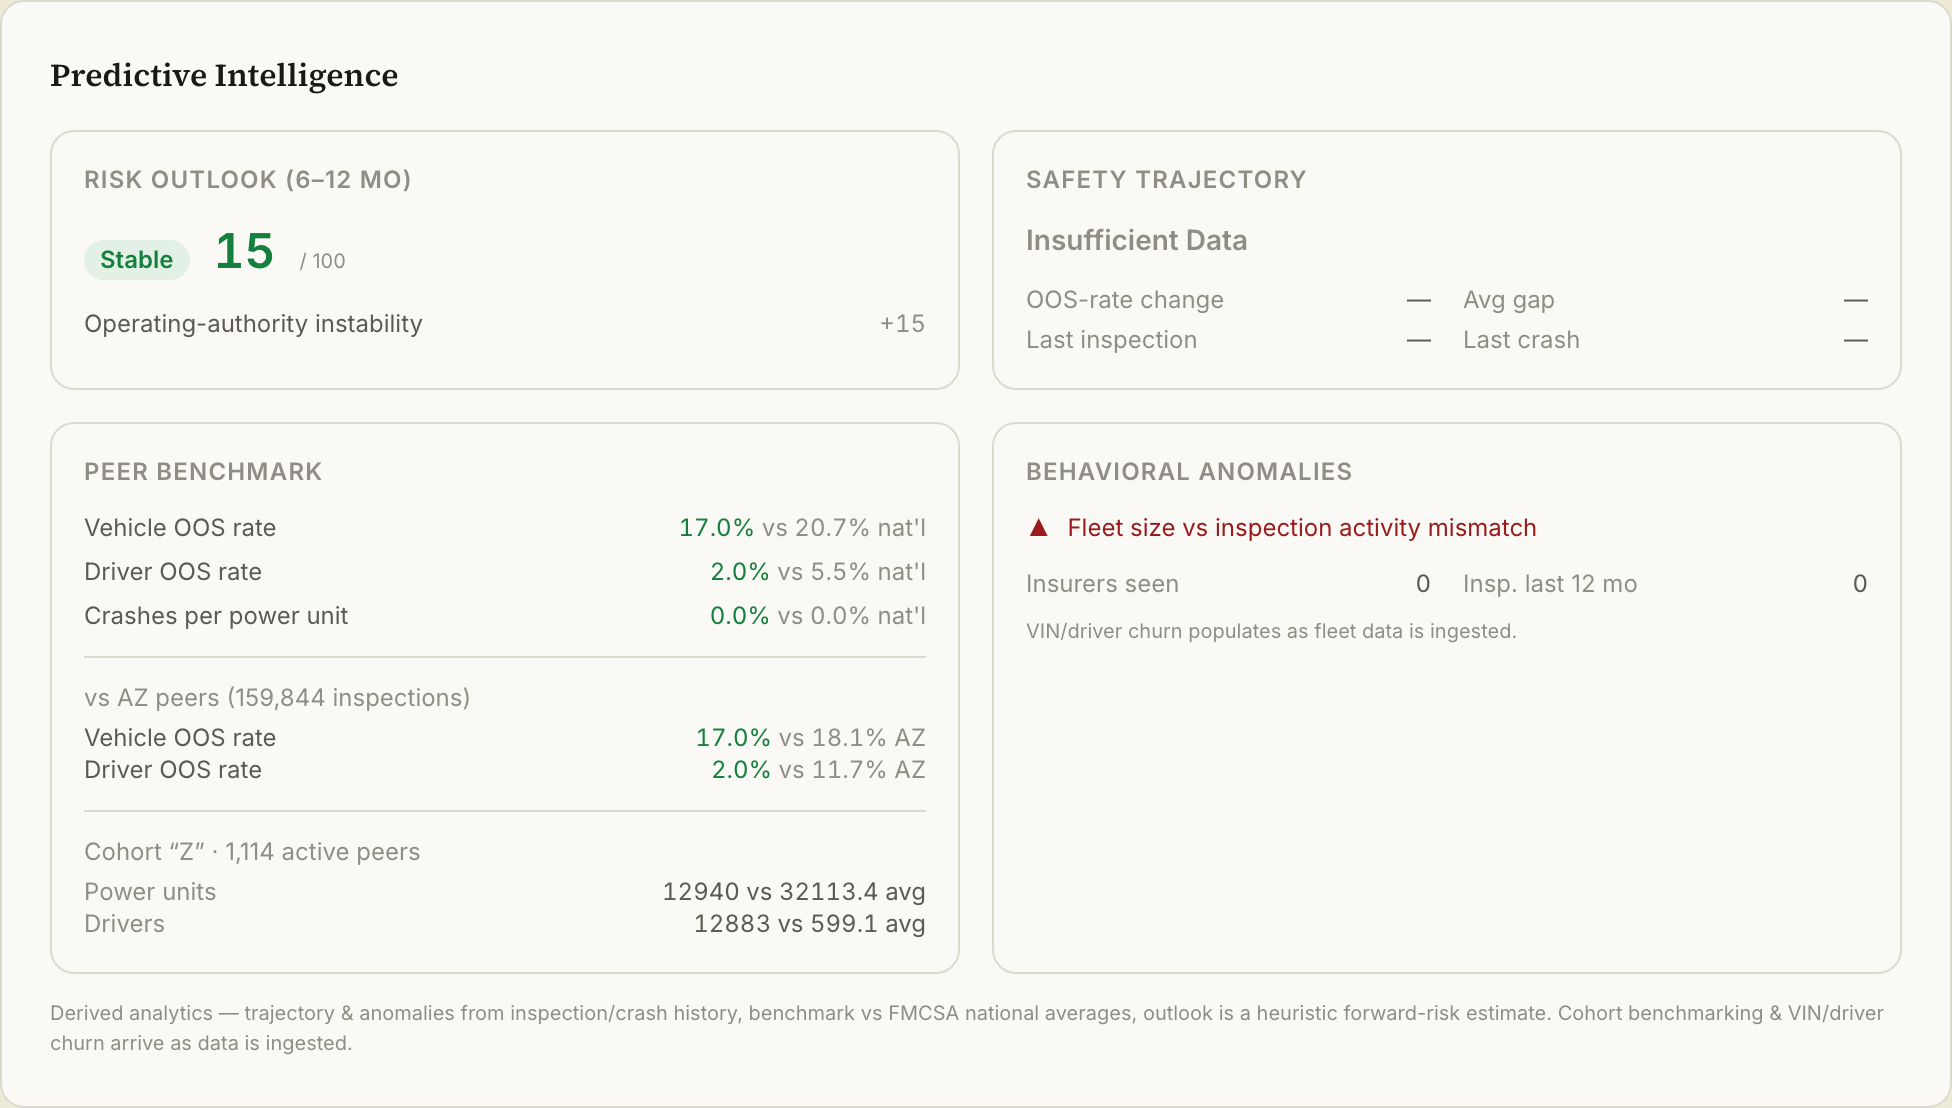
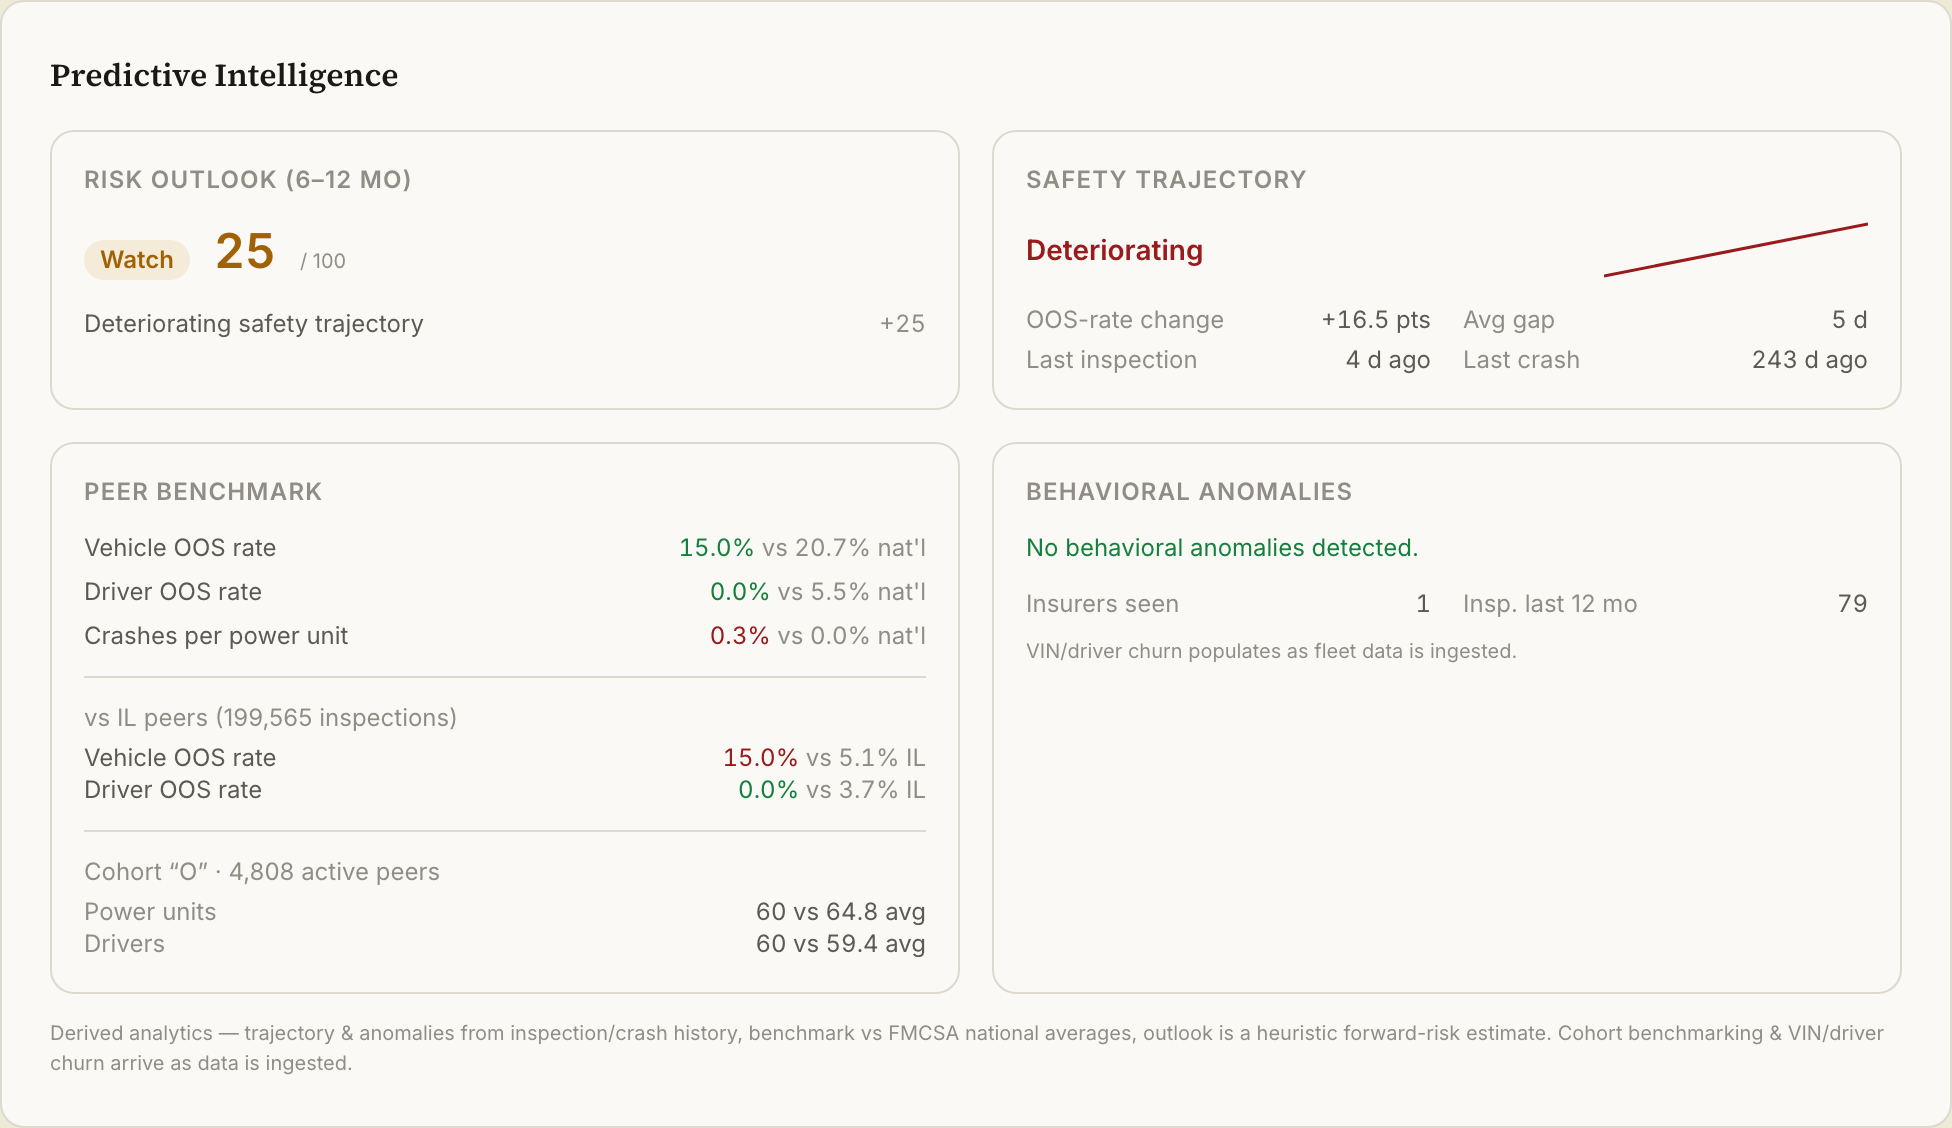
Fix FMCSA date parsing in Predictive Intelligence (+ fuller screenshot)
FMCSA/Socrata dates are not ISO: insp_date & crash report_date are YYYYMMDD,
insurance effective_date is MM/DD/YYYY. The adapter passed them raw to the pure
compute, whose parser only handles ISO — so every inspection/crash date became
NaN and was dropped. Effect (silent, prod): Safety Trajectory always
"insufficient data", days-since-last-inspection/-crash null, inspection-drought
never fired, recent-fatal-crash never counted in the Risk Outlook. Unit tests
passed only because they used ISO fixtures.

Fix: normalizeFmcsaDate() (YYYYMMDD / MM/DD/YYYY / ISO -> YYYY-MM-DD) applied at
the adapter boundary (inspections, crashes, insurance, recent-fatal-crash).
+6 tests incl. a regression proving the trajectory verdict now fires from
YYYYMMDD dates; 79 total green; typecheck + prod build clean.

Verified on real carrier pages: trajectories now render improving/stable/
deteriorating with sparkline + days-since. Refresh docs/carrier-intelligence.png
to DOT 3157032 (deteriorating, +16.5 pts OOS) which shows the now-working
readout; screenshot tool default updated to match.

diff --git a/landing/lib/intelligence/adapters.test.ts b/landing/lib/intelligence/adapters.test.ts
@@ -6,8 +6,34 @@ import {
   oosRates,
   recentFatalCrash,
   authorityInstability,
+  normalizeFmcsaDate,
   buildIntelligence,
 } from "./adapters";
+
+describe("normalizeFmcsaDate", () => {
+  it("converts FMCSA YYYYMMDD to ISO", () => {
+    expect(normalizeFmcsaDate("20260620")).toBe("2026-06-20");
+  });
+  it("converts MM/DD/YYYY (insurance) to ISO, zero-padded", () => {
+    expect(normalizeFmcsaDate("12/31/2029")).toBe("2029-12-31");
+    expect(normalizeFmcsaDate("1/5/2024")).toBe("2024-01-05");
+  });
+  it("passes through an already-ISO date", () => {
+    expect(normalizeFmcsaDate("2025-03-01")).toBe("2025-03-01");
+  });
+  it("returns empty for blank/missing", () => {
+    expect(normalizeFmcsaDate("")).toBe("");
+    expect(normalizeFmcsaDate(null)).toBe("");
+    expect(normalizeFmcsaDate(undefined)).toBe("");
+  });
+});
+
+describe("toDatedInspections — date normalization", () => {
+  it("normalizes FMCSA YYYYMMDD inspection dates", () => {
+    const out = toDatedInspections([{ dot_number: "1", insp_date: "20250115", oos_total: "1", viol_total: "2" }]);
+    expect(out[0]).toEqual({ date: "2025-01-15", oos: true, violations: 2 });
+  });
+});
 
 describe("toDatedInspections", () => {
   it("maps date, OOS flag (oos_total>0), and violation count", () => {
@@ -138,5 +164,27 @@ describe("buildIntelligence", () => {
     expect(intel.outlook.factors.some((f) => f.label === "recent_fatal_crash")).toBe(true);
     expect(intel.outlook.factors.some((f) => f.label === "basic_percentile_critical")).toBe(true);
     expect(intel.outlook.factors.some((f) => f.label === "authority_instability")).toBe(true);
+  });
+
+  it("parses FMCSA YYYYMMDD dates so the trajectory verdict fires (regression)", () => {
+    const intel = buildIntelligence({
+      inspections: [
+        { dot_number: "1", insp_date: "20240110", oos_total: "0", viol_total: "0" },
+        { dot_number: "1", insp_date: "20240620", oos_total: "0", viol_total: "0" }, // 2024: 0% OOS
+        { dot_number: "1", insp_date: "20250110", oos_total: "1", viol_total: "1" },
+        { dot_number: "1", insp_date: "20250620", oos_total: "1", viol_total: "1" }, // 2025: 100% OOS
+      ],
+      crashes: [{ dot_number: "1", report_date: "20251201", fatalities: "1" }],
+      insurance: [],
+      basics: [],
+      authorityHistory: [],
+      vins: [],
+      drivers: [],
+      powerUnits: 3,
+      asOf: "2026-06-01",
+    });
+    expect(intel.trajectory.verdict).toBe("deteriorating"); // was "insufficient_data" before the fix
+    expect(intel.trajectory.daysSinceLastInspection).not.toBeNull();
+    expect(intel.outlook.factors.some((f) => f.label === "recent_fatal_crash")).toBe(true);
   });
 });

diff --git a/landing/lib/intelligence/adapters.ts b/landing/lib/intelligence/adapters.ts
@@ -20,6 +20,21 @@ const num = (v: unknown): number => {
 const DAY_MS = 86_400_000;
 const parseUTC = (d: string): number => Date.parse(d && d.length === 10 ? `${d}T00:00:00Z` : d);
 
+/** FMCSA/Socrata dates arrive in several shapes — YYYYMMDD (inspections,
+ *  crashes), MM/DD/YYYY (insurance), or ISO. Normalize to YYYY-MM-DD so the
+ *  pure date parsers (which assume ISO) work. Unknown shapes pass through. */
+export function normalizeFmcsaDate(raw: string | null | undefined): string {
+  const s = (raw ?? "").trim();
+  if (!s) return "";
+  let m = s.match(/^(\d{4})(\d{2})(\d{2})$/); // YYYYMMDD
+  if (m) return `${m[1]}-${m[2]}-${m[3]}`;
+  m = s.match(/^(\d{1,2})\/(\d{1,2})\/(\d{4})$/); // MM/DD/YYYY
+  if (m) return `${m[3]}-${m[1].padStart(2, "0")}-${m[2].padStart(2, "0")}`;
+  m = s.match(/^(\d{4}-\d{2}-\d{2})/); // already ISO (possibly with time)
+  if (m) return m[1];
+  return s;
+}
+
 export type CarrierIntelligence = {
   trajectory: Trajectory;
   anomaly: AnomalyResult;
@@ -54,11 +69,11 @@ export function authorityInstability(history: SocrataAuthorityHistory[]): boolea
 export function toDatedInspections(rows: SocrataInspection[]): DatedInspection[] {
   return rows
     .filter((r) => r.insp_date)
-    .map((r) => ({ date: r.insp_date as string, oos: num(r.oos_total) > 0, violations: num(r.viol_total) }));
+    .map((r) => ({ date: normalizeFmcsaDate(r.insp_date), oos: num(r.oos_total) > 0, violations: num(r.viol_total) }));
 }
 
 export function toDatedCrashes(rows: SocrataCrash[]): DatedCrash[] {
-  return rows.filter((r) => r.report_date).map((r) => ({ date: r.report_date as string }));
+  return rows.filter((r) => r.report_date).map((r) => ({ date: normalizeFmcsaDate(r.report_date) }));
 }
 
 export function toInsurancePolicies(rows: SocrataInsurance[]): InsurancePolicy[] {
@@ -66,7 +81,7 @@ export function toInsurancePolicies(rows: SocrataInsurance[]): InsurancePolicy[]
   // (insurer count/changes are the meaningful Phase-1 churn signal).
   return rows
     .filter((r) => r.effective_date)
-    .map((r) => ({ insurer: r.name_company ?? "", from: r.effective_date as string, to: null }));
+    .map((r) => ({ insurer: r.name_company ?? "", from: normalizeFmcsaDate(r.effective_date), to: null }));
 }
 
 export function oosRates(rows: SocrataInspection[]): { vehicleOosRate: number | null; driverOosRate: number | null } {
@@ -80,7 +95,7 @@ export function recentFatalCrash(rows: SocrataCrash[], asOf: string): boolean {
   const asOfMs = parseUTC(asOf);
   return rows.some((r) => {
     if (num(r.fatalities) <= 0 || !r.report_date) return false;
-    const ms = parseUTC(r.report_date);
+    const ms = parseUTC(normalizeFmcsaDate(r.report_date));
     if (Number.isNaN(ms)) return false;
     const age = asOfMs - ms;
     return age >= 0 && age <= 730 * DAY_MS;